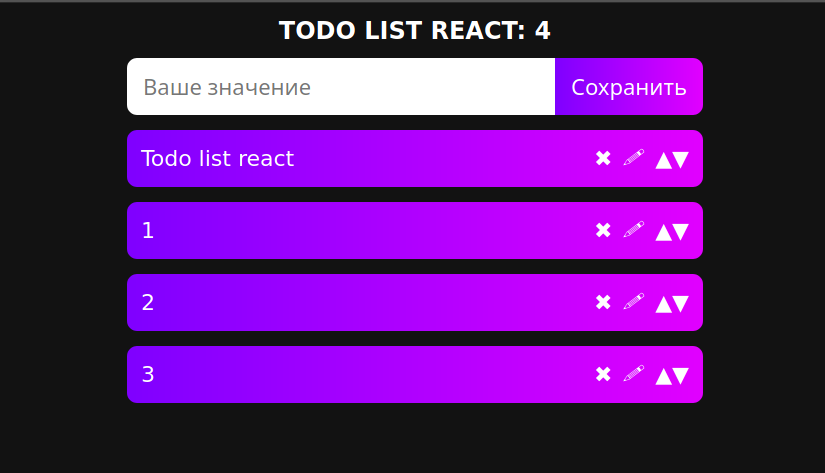
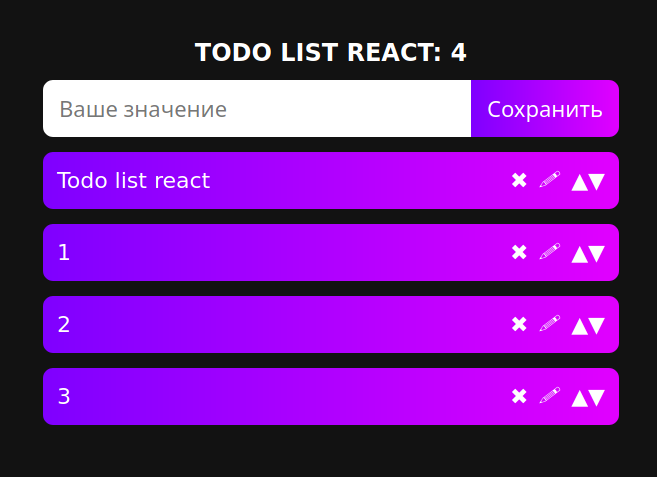
new img

diff --git a/src/index.css b/src/index.css
@@ -1,2 +1,2 @@
-html{position:relative;min-height:100%}html,body{font-family:Verdana,Geneva,Sans-Serif;font-size:16px}body{margin:0;display:-webkit-box;display:-webkit-flex;display:-ms-flexbox;display:flex;min-height:100vh;-webkit-box-orient:vertical;-webkit-box-direction:normal;-webkit-flex-direction:column;-ms-flex-direction:column;flex-direction:column;background-color:#121212;color:#fff}.App{text-align:center;display:block;margin:auto;width:0px auto;max-width:576px}.App h1{margin:0rem;padding:.8rem;color:#fff;text-transform:uppercase;font-size:1.5rem}.App>.item-todo{display:-webkit-box;display:-webkit-flex;display:-ms-flexbox;display:flex;-webkit-box-orient:horizontal;-webkit-box-direction:normal;-webkit-flex-direction:row;-ms-flex-direction:row;flex-direction:row;-webkit-flex-wrap:nowrap;-ms-flex-wrap:nowrap;flex-wrap:nowrap;-webkit-box-pack:justify;-webkit-justify-content:space-between;-ms-flex-pack:justify;justify-content:space-between;-webkit-box-align:center;-webkit-align-items:center;-ms-flex-align:center;align-items:center;-webkit-align-content:stretch;-ms-flex-line-pack:stretch;align-content:stretch;padding:14px;margin:0 auto;text-align:left;margin-top:15px;background:-webkit-gradient(linear, left top, right top, from(#7f00ff), to(#e100ff));background:-webkit-linear-gradient(left, #7f00ff, #e100ff);background:-o-linear-gradient(left, #7f00ff, #e100ff);background:linear-gradient(to right, #7f00ff, #e100ff);color:#fff;border:none;-webkit-border-radius:10px;border-radius:10px;cursor:pointer}.App>.item-todo>.item-text{display:inline-block;cursor:pointer;font-size:22px}.App>.item-todo>.item-text.strike{text-decoration:line-through}.App>.item-todo>.item-update{display:inline-block;cursor:pointer;font-size:22px;margin-left:10px;margin-right:10px}.App>.item-todo>.item-delete{display:inline-block;cursor:pointer;font-size:22px;margin-left:auto;margin-right:0px}.App>.item-todo>.item-up,.App>.item-todo>.item-down{font-size:22px}.App>form{display:-webkit-box;display:-webkit-flex;display:-ms-flexbox;display:flex;-webkit-box-orient:horizontal;-webkit-box-direction:normal;-webkit-flex-direction:row;-ms-flex-direction:row;flex-direction:row;-webkit-flex-wrap:nowrap;-ms-flex-wrap:nowrap;flex-wrap:nowrap;-webkit-box-pack:justify;-webkit-justify-content:space-between;-ms-flex-pack:justify;justify-content:space-between;-webkit-box-align:stretch;-webkit-align-items:stretch;-ms-flex-align:stretch;align-items:stretch;-webkit-align-content:stretch;-ms-flex-line-pack:stretch;align-content:stretch}.App>form>input{padding:13px 16px;-webkit-border-radius:10px 0 0 10px;border-radius:10px 0 0 10px;border:none;outline:none;background:#fff;width:100%;font-size:22px}.App>form>button{padding:13px 16px;border:none;-webkit-border-radius:0 10px 10px 0;border-radius:0 10px 10px 0;cursor:pointer;outline:none;background:-webkit-gradient(linear, left top, right top, from(#7f00ff), to(#e100ff));background:-webkit-linear-gradient(left, #7f00ff, #e100ff);background:-o-linear-gradient(left, #7f00ff, #e100ff);background:linear-gradient(to right, #7f00ff, #e100ff);color:#fff;text-transform:capitalize;font-size:22px}
+html{position:relative;min-height:100%}html,body{font-family:Verdana,Geneva,Sans-Serif;font-size:16px}body{margin:0;display:-webkit-box;display:-webkit-flex;display:-ms-flexbox;display:flex;min-height:100vh;-webkit-box-orient:vertical;-webkit-box-direction:normal;-webkit-flex-direction:column;-ms-flex-direction:column;flex-direction:column;background-color:#121212;color:#fff}.App{text-align:center;display:block;margin:auto;width:auto;max-width:576px}.App h1{margin:0rem;padding:.8rem;color:#fff;text-transform:uppercase;font-size:1.5rem}.App>.item-todo{display:-webkit-box;display:-webkit-flex;display:-ms-flexbox;display:flex;-webkit-box-orient:horizontal;-webkit-box-direction:normal;-webkit-flex-direction:row;-ms-flex-direction:row;flex-direction:row;-webkit-flex-wrap:nowrap;-ms-flex-wrap:nowrap;flex-wrap:nowrap;-webkit-box-pack:justify;-webkit-justify-content:space-between;-ms-flex-pack:justify;justify-content:space-between;-webkit-box-align:center;-webkit-align-items:center;-ms-flex-align:center;align-items:center;-webkit-align-content:stretch;-ms-flex-line-pack:stretch;align-content:stretch;padding:14px;margin:0 auto;text-align:left;margin-top:15px;background:-webkit-gradient(linear, left top, right top, from(#7f00ff), to(#e100ff));background:-webkit-linear-gradient(left, #7f00ff, #e100ff);background:-o-linear-gradient(left, #7f00ff, #e100ff);background:linear-gradient(to right, #7f00ff, #e100ff);color:#fff;border:none;-webkit-border-radius:10px;border-radius:10px;cursor:pointer}.App>.item-todo>.item-text{display:inline-block;cursor:pointer;font-size:22px}.App>.item-todo>.item-text.strike{text-decoration:line-through}.App>.item-todo>.item-update{display:inline-block;cursor:pointer;font-size:22px;margin-left:10px;margin-right:10px}.App>.item-todo>.item-delete{display:inline-block;cursor:pointer;font-size:22px;margin-left:auto;margin-right:0px}.App>.item-todo>.item-up,.App>.item-todo>.item-down{font-size:22px}.App>form{display:-webkit-box;display:-webkit-flex;display:-ms-flexbox;display:flex;-webkit-box-orient:horizontal;-webkit-box-direction:normal;-webkit-flex-direction:row;-ms-flex-direction:row;flex-direction:row;-webkit-flex-wrap:nowrap;-ms-flex-wrap:nowrap;flex-wrap:nowrap;-webkit-box-pack:justify;-webkit-justify-content:space-between;-ms-flex-pack:justify;justify-content:space-between;-webkit-box-align:stretch;-webkit-align-items:stretch;-ms-flex-align:stretch;align-items:stretch;-webkit-align-content:stretch;-ms-flex-line-pack:stretch;align-content:stretch}.App>form>input{padding:13px 16px;-webkit-border-radius:10px 0 0 10px;border-radius:10px 0 0 10px;border:none;outline:none;background:#fff;width:100%;font-size:22px}.App>form>button{padding:13px 16px;border:none;-webkit-border-radius:0 10px 10px 0;border-radius:0 10px 10px 0;cursor:pointer;outline:none;background:-webkit-gradient(linear, left top, right top, from(#7f00ff), to(#e100ff));background:-webkit-linear-gradient(left, #7f00ff, #e100ff);background:-o-linear-gradient(left, #7f00ff, #e100ff);background:linear-gradient(to right, #7f00ff, #e100ff);color:#fff;text-transform:capitalize;font-size:22px}
 /*# sourceMappingURL=index.css.map */

diff --git a/src/index.scss b/src/index.scss
@@ -35,7 +35,7 @@ body {
 
 /**/
 .App {
-  text-align: center; display: block; margin: auto; width: 0px auto; max-width: 576px;
+  text-align: center; display: block; margin: auto; width: auto; max-width: 576px;
 
   h1{  margin: 0rem; padding: .8rem; color: #fff; text-transform: uppercase; font-size: 1.5rem; }
 
